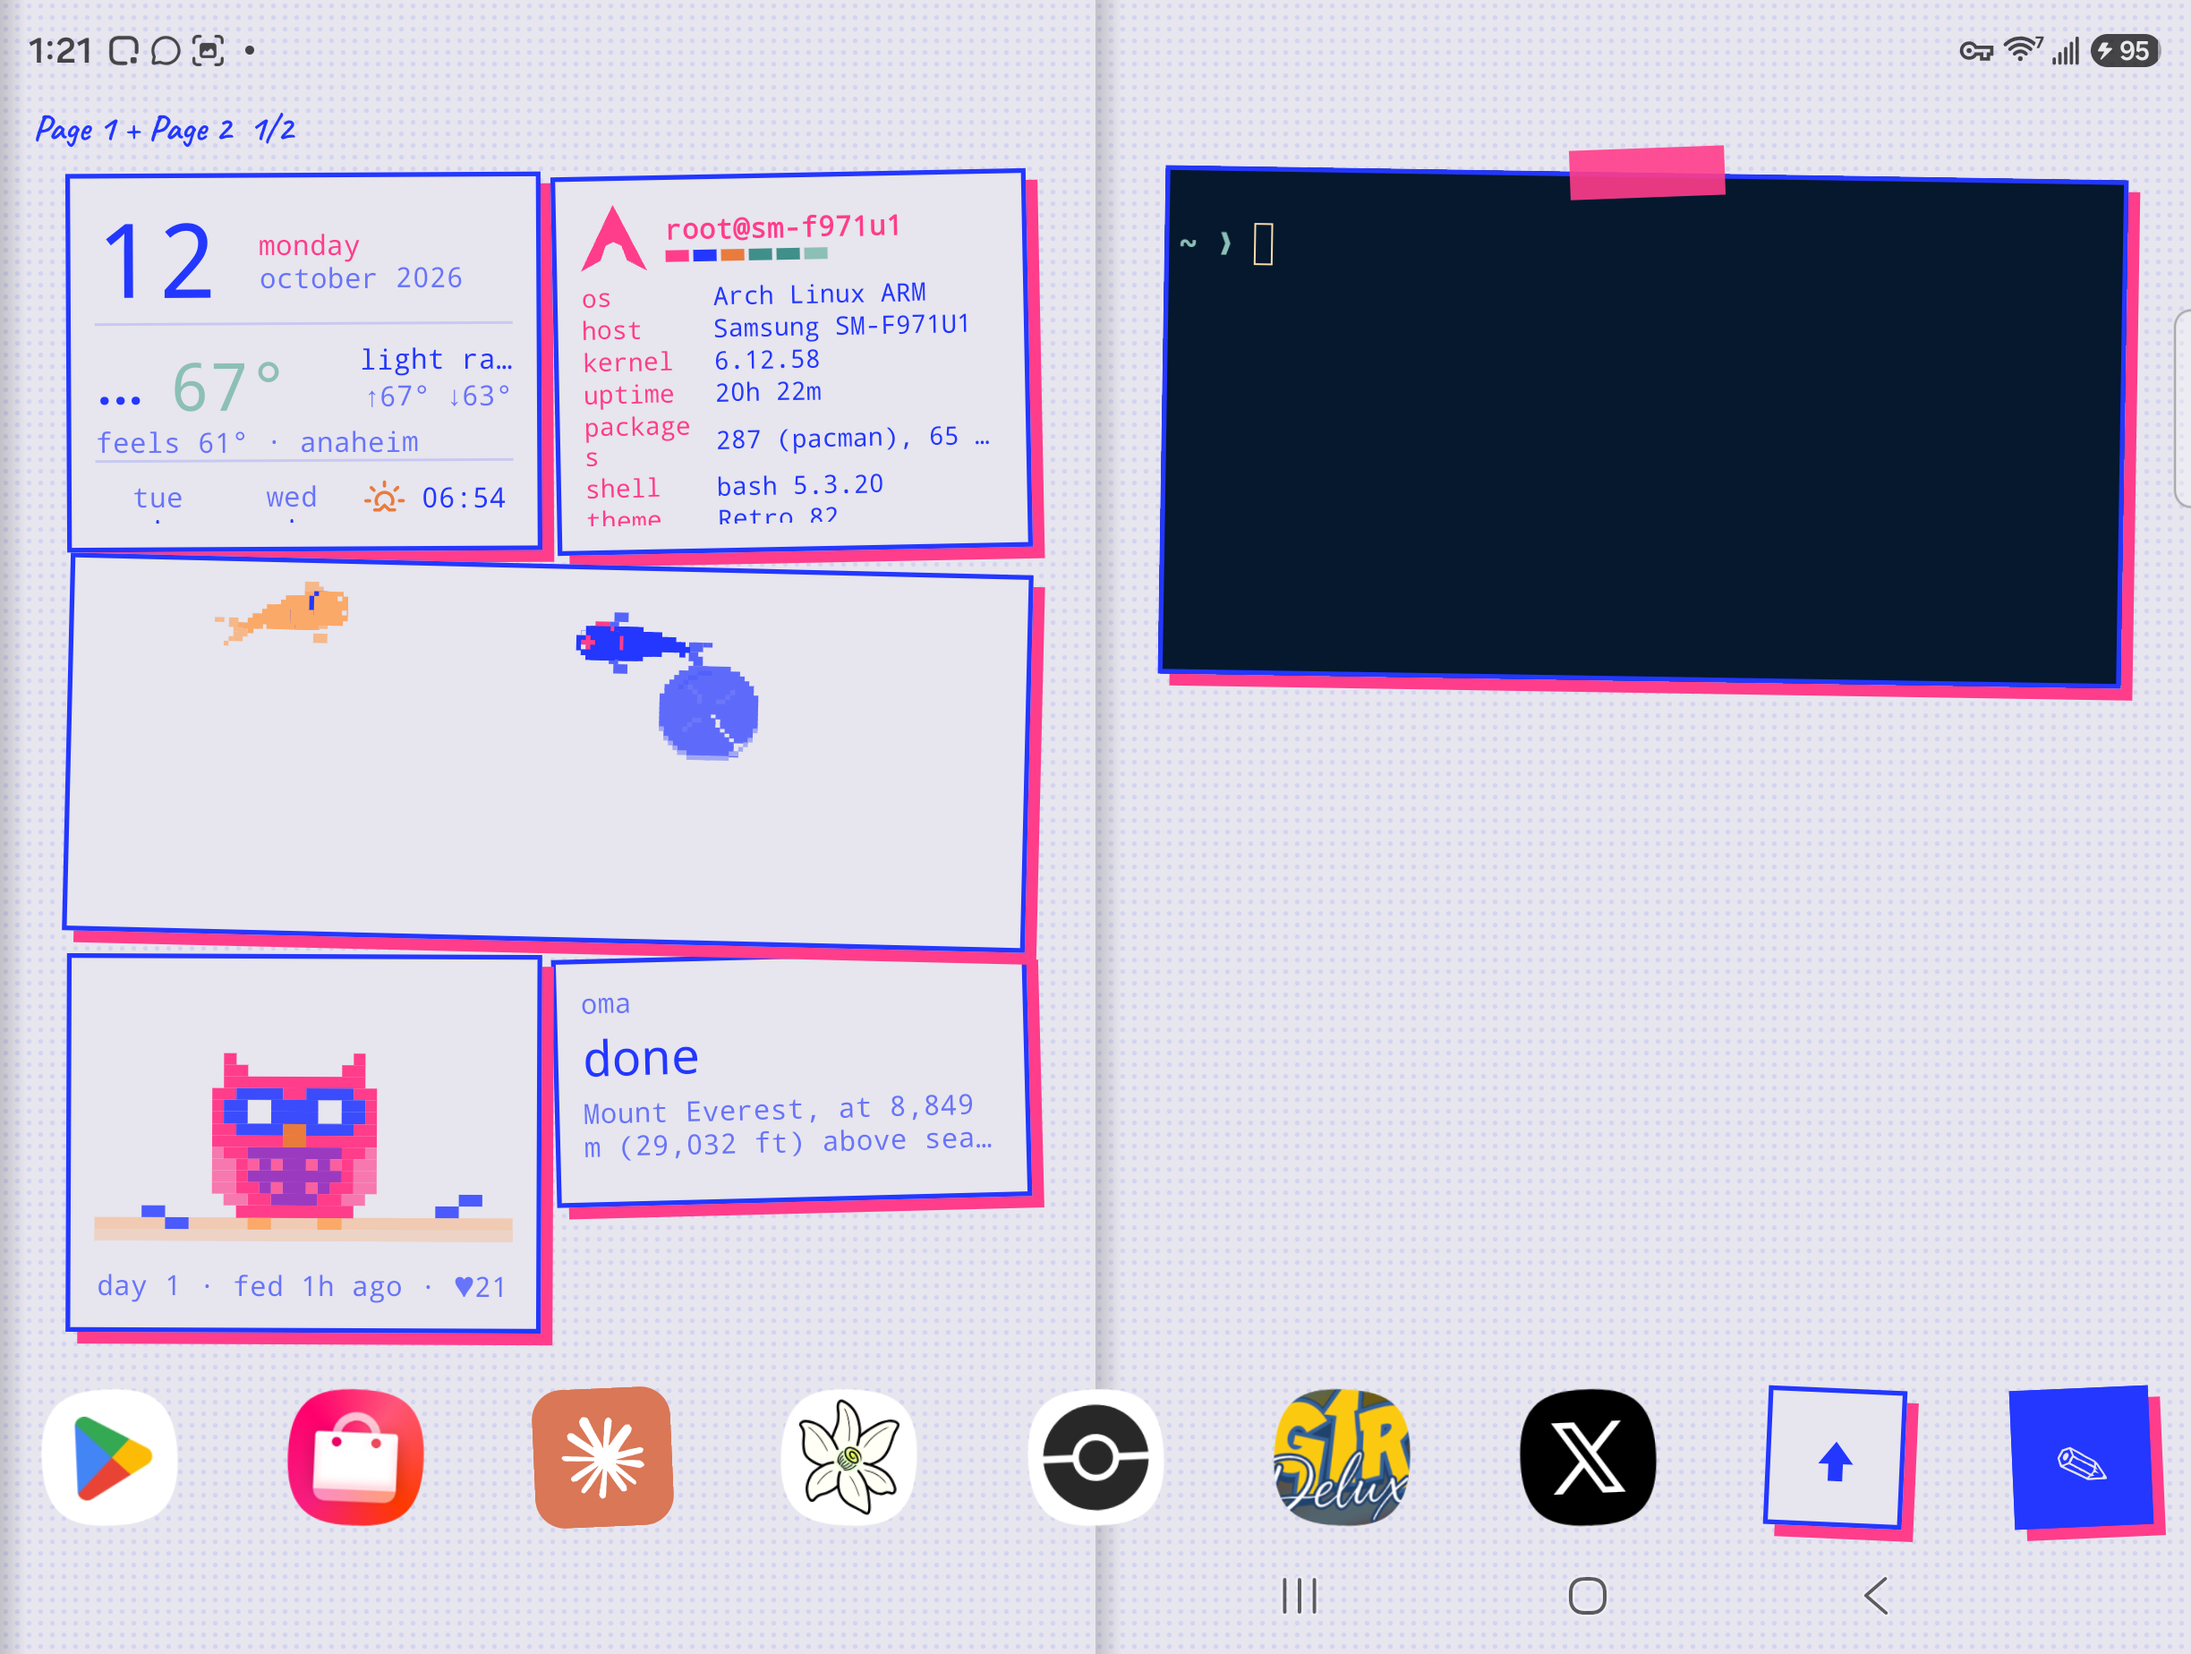
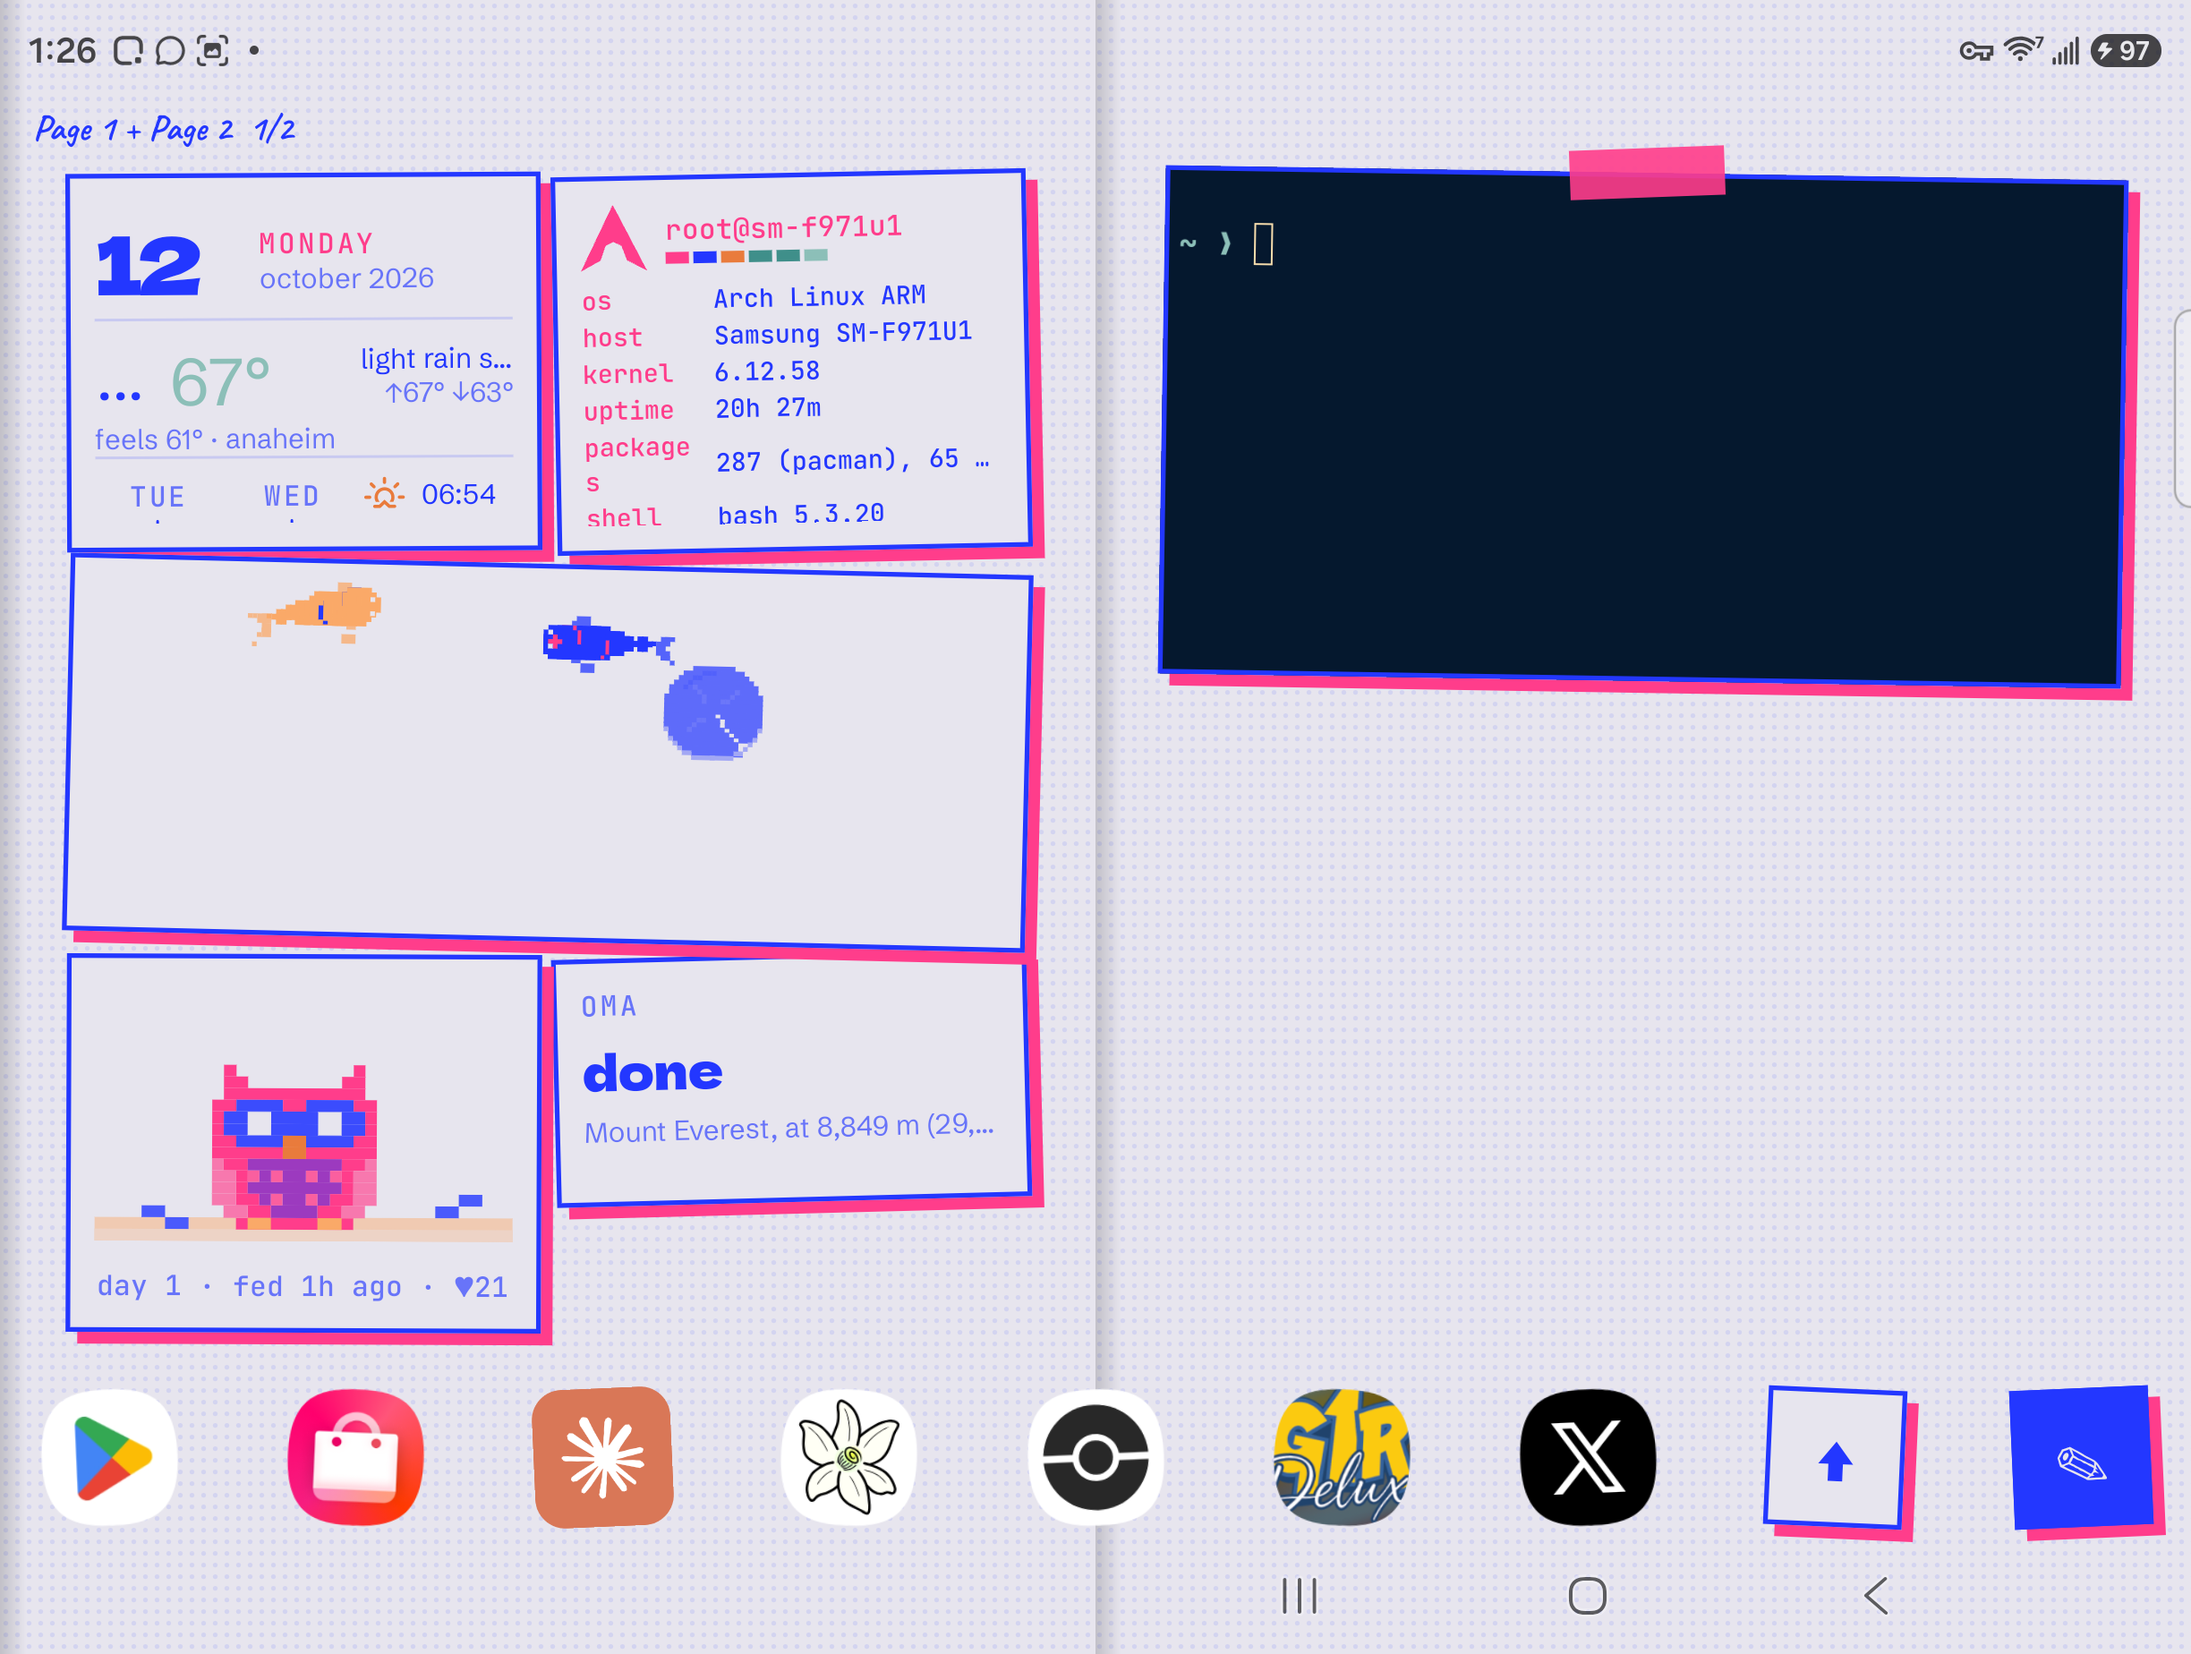
Set widgets' text in the look's voices
In a look that draws its own page a widget's big text is in the display voice at
the prototype's size, its captions in the small spaced capitals, and the rest in
the body voice; font: mono, display, body or hand picks one. Console is
monospace throughout, as before.

diff --git a/app/src/main/kotlin/dev/omalauncher/widgets/render/Render.kt b/app/src/main/kotlin/dev/omalauncher/widgets/render/Render.kt
@@ -72,7 +72,11 @@ import androidx.compose.ui.unit.sp
 import dev.omalauncher.ui.Mono
 import dev.omalauncher.ui.NerdSymbols
 import dev.omalauncher.ui.LauncherStyle
+import dev.omalauncher.ui.Pack
 import dev.omalauncher.ui.Palette
+import dev.omalauncher.theme.pack.TypeRole
+import androidx.compose.ui.unit.TextUnit
+import androidx.compose.ui.unit.em
 import dev.omalauncher.ui.TerminalView
 import dev.omalauncher.widgets.lang.Action
 import dev.omalauncher.widgets.lang.Builtins
@@ -302,7 +306,7 @@ private fun Element(
                     }.padding(horizontal = 10.dp, vertical = 6.dp),
                 contentAlignment = Alignment.Center,
             ) {
-                BasicText(p.observe("text")?.text().orEmpty(), style = WidgetMono, maxLines = 1, overflow = TextOverflow.Ellipsis, color = ColorProducer { color() })
+                BasicText(p.observe("text")?.text().orEmpty(), style = widgetVoice(TypeRole.Body, 13.sp), maxLines = 1, overflow = TextOverflow.Ellipsis, color = ColorProducer { color() })
             }
         }
         "Progress" -> {
@@ -568,33 +572,83 @@ private fun handlers(p: Props): Modifier {
     return m
 }
 
+/**
+ * The voice a widget's text is set in. In a look that draws its own page it is one of the look's, as the
+ * prototype's scraps are: big text in the display voice, captions in the small spaced capitals, the rest in
+ * the body voice, and `font:` picks another. In Console everything is the launcher's monospace, as it always was.
+ */
+internal fun widgetRole(
+    style: String?,
+    font: String?,
+): TypeRole? =
+    when (font) {
+        "mono" -> TypeRole.Mono
+        "hand" -> TypeRole.Hand
+        "display" -> TypeRole.Display
+        "body" -> TypeRole.Body
+        // The system's own faces and the symbol font are no voice of the look's.
+        "sans", "serif", "icon" -> null
+        else ->
+            when (style) {
+                "huge", "title" -> TypeRole.Display
+                "label" -> TypeRole.Mono
+                else -> TypeRole.Body
+            }
+    }
+
+/** How much of its monospace size `huge` text keeps in a look's display voice: the prototype's 34 against 44. */
+internal const val HUGE_IN_DISPLAY = 34f / 44f
+
+/** The prototype's line height for its display voice, in ems. */
+internal const val DISPLAY_LINE = 1.05f
+
+/** [size] of text in [role], for a widget: the look's voice where it has the page, else the launcher's monospace. */
+internal fun widgetVoice(
+    role: TypeRole?,
+    size: TextUnit,
+    /** A caption keeps the voice's spacing; other text in the same voice (a table set in mono) is set plainly. */
+    spaced: Boolean = false,
+): TextStyle {
+    if (role == null || !Pack.ownsPage) return Mono.copy(fontSize = size)
+    val voice = Pack.look.style(role, size, Color.Unspecified)
+    // The prototype sets its display voice tight (`.disp`: line-height 1.05): a heading takes no more of a tile than it did in monospace.
+    val set = if (role == TypeRole.Display) voice.copy(lineHeight = DISPLAY_LINE.em) else voice
+    return if (spaced) set else set.copy(letterSpacing = TextUnit.Unspecified)
+}
+
 @Composable
 private fun TextNode(
     p: Props,
     mod: Modifier,
 ) {
     val style = p.observe("style")?.toString()
-    val base =
-        when (style) {
-            "huge" -> WidgetMono.copy(fontSize = 44.sp)
-            "title" -> WidgetMono.copy(fontSize = 20.sp)
-            "small", "label" -> WidgetMono.copy(fontSize = 11.sp)
-            else -> WidgetMono
+    val font = p.observe("font")?.toString()
+    val size =
+        p.observe("fontSize")?.num()?.sp ?: when (style) {
+            "huge" -> 44.sp
+            "title" -> 20.sp
+            "small", "label" -> 11.sp
+            else -> 13.sp
         }
+    val label = style == "label" && font == null
+    val role = widgetRole(style, font)
+    // The biggest text is the prototype's `.head`, 34 units: a display face is far wider than the monospace that 44 was chosen for.
+    val shrunk = style == "huge" && role == TypeRole.Display && Pack.ownsPage && !p.has("fontSize")
+    val voice = widgetVoice(role, if (shrunk) size * HUGE_IN_DISPLAY else size, spaced = label)
     val defaultColor: () -> Color = if (style == "muted" || style == "label") ({ Palette.muted }) else ({ Palette.foreground })
     val color = p.color("color", defaultColor)
     val textStyle =
-        TextStyle(
+        voice.copy(
             fontFamily =
-                when (p.observe("font")?.toString()) {
+                when (font) {
                     "sans" -> FontFamily.SansSerif
                     "serif" -> FontFamily.Serif
                     "icon" -> NerdSymbols
-                    else -> FontFamily.Monospace
+                    else -> voice.fontFamily ?: FontFamily.Monospace
                 },
-            fontSize = p.observe("fontSize")?.num()?.sp ?: base.fontSize,
-            fontWeight = if (p.observe("bold")?.truthy == true) FontWeight.Bold else null,
-            fontStyle = if (p.observe("italic")?.truthy == true) FontStyle.Italic else null,
+            fontSize = if (p.has("fontSize")) size else voice.fontSize,
+            fontWeight = if (p.observe("bold")?.truthy == true) FontWeight.Bold else voice.fontWeight,
+            fontStyle = if (p.observe("italic")?.truthy == true) FontStyle.Italic else voice.fontStyle,
             textAlign =
                 when (p.observe("align")?.toString()) {
                     "center" -> TextAlign.Center
@@ -602,8 +656,10 @@ private fun TextNode(
                     else -> TextAlign.Start
                 },
         )
+    val text = p.observe("text")?.text().orEmpty()
     BasicText(
-        p.observe("text")?.text().orEmpty(),
+        // A caption is spelled as the look spells one: in capitals where its caption voice says so.
+        if (label && Pack.ownsPage) Pack.caption(text) else text,
         if (p.has("width") || p.has("weight") || p.has("fill")) mod else mod.fillMaxWidth(),
         style = textStyle,
         // Big text stays on one line in narrow tiles instead of breaking mid-word.

diff --git a/app/src/test/kotlin/dev/omalauncher/widgets/WidgetVoiceTest.kt b/app/src/test/kotlin/dev/omalauncher/widgets/WidgetVoiceTest.kt
@@ -1,0 +1,29 @@
+package dev.omalauncher.widgets
+
+import dev.omalauncher.theme.pack.TypeRole
+import dev.omalauncher.widgets.render.widgetRole
+import org.junit.Assert.assertEquals
+import org.junit.Assert.assertNull
+import org.junit.Test
+
+/** Which of a look's voices a widget's text is set in. */
+class WidgetVoiceTest {
+    @Test fun bigTextIsTheDisplayVoiceCaptionsTheCapitalsAndTheRestTheBody() {
+        assertEquals(TypeRole.Display, widgetRole("huge", null))
+        assertEquals(TypeRole.Display, widgetRole("title", null))
+        assertEquals(TypeRole.Mono, widgetRole("label", null))
+        for (style in listOf(null, "body", "small", "muted")) assertEquals(TypeRole.Body, widgetRole(style, null))
+    }
+
+    @Test fun aWidgetCanPickAVoiceWhateverTheStyle() {
+        assertEquals(TypeRole.Mono, widgetRole("title", "mono"))
+        assertEquals(TypeRole.Hand, widgetRole(null, "hand"))
+        assertEquals(TypeRole.Display, widgetRole("small", "display"))
+        assertEquals(TypeRole.Body, widgetRole("huge", "body"))
+    }
+
+    /** The system's faces and the symbol font stay what they are in every look. */
+    @Test fun theSystemsFacesAndTheSymbolsAreNoVoiceOfTheLooks() {
+        for (font in listOf("sans", "serif", "icon")) assertNull(widgetRole("title", font))
+    }
+}

diff --git a/owl/src/main/kotlin/dev/omalauncher/widgets/lang/Compiler.kt b/owl/src/main/kotlin/dev/omalauncher/widgets/lang/Compiler.kt
@@ -72,7 +72,7 @@ class Compiler private constructor(
                 "align" to ALIGN,
                 "justify" to setOf("start", "center", "end", "spaceBetween", "spaceAround", "spaceEvenly"),
                 "fit" to setOf("contain", "cover", "fill"),
-                "font" to setOf("mono", "sans", "serif", "icon"),
+                "font" to setOf("mono", "display", "body", "hand", "sans", "serif", "icon"),
                 "fill" to setOf("width", "height"),
                 "cap" to setOf("round", "butt", "square"),
             )

diff --git a/app/src/main/assets/widgets/README.md b/app/src/main/assets/widgets/README.md
@@ -179,7 +179,7 @@ when lists reorder), and `let x = ...` inside any node.
 | `Flow` | a Row that wraps to new lines |
 | `Box` | stacks children on top of each other; `align: center/top/bottom/start/end/topStart/topEnd/bottomStart/bottomEnd` |
 | `Grid` | `columns` (2), `gap`; children fill cells left to right |
-| `Text` | `text`, `style: huge/title/body/small/muted/label`, `color`, `fontSize`, `bold`, `italic`, `font: mono/sans/serif/icon` (`icon` draws the Nerd Font weather glyphs U+E300–E3E3, plus  U+F012C and  U+F0156), `align: start/center/end`, `maxLines` |
+| `Text` | `text`, `style: huge/title/body/small/muted/label`, `color`, `fontSize`, `bold`, `italic`, `font: mono/display/body/hand/sans/serif/icon` (in a look with its own page, text is in the look's voices: `huge` and `title` in its display voice, `label` in its caption capitals, the rest in its body voice, and `mono`, `display`, `body` or `hand` picks one; in Console all of it is monospace) (`icon` draws the Nerd Font weather glyphs U+E300–E3E3, plus  U+F012C and  U+F0156), `align: start/center/end`, `maxLines` |
 | `Button` | `text`, `color`, `onTap` |
 | `Progress` | `value`, `max` (100), `color`, `track` |
 | `Ring` | circular progress: `value`, `max` (1), `color`, `track`, `thickness` (6), `start`/`sweep` (degrees; `start: 225; sweep: 270` makes a gauge). 64 dp unless sized |
